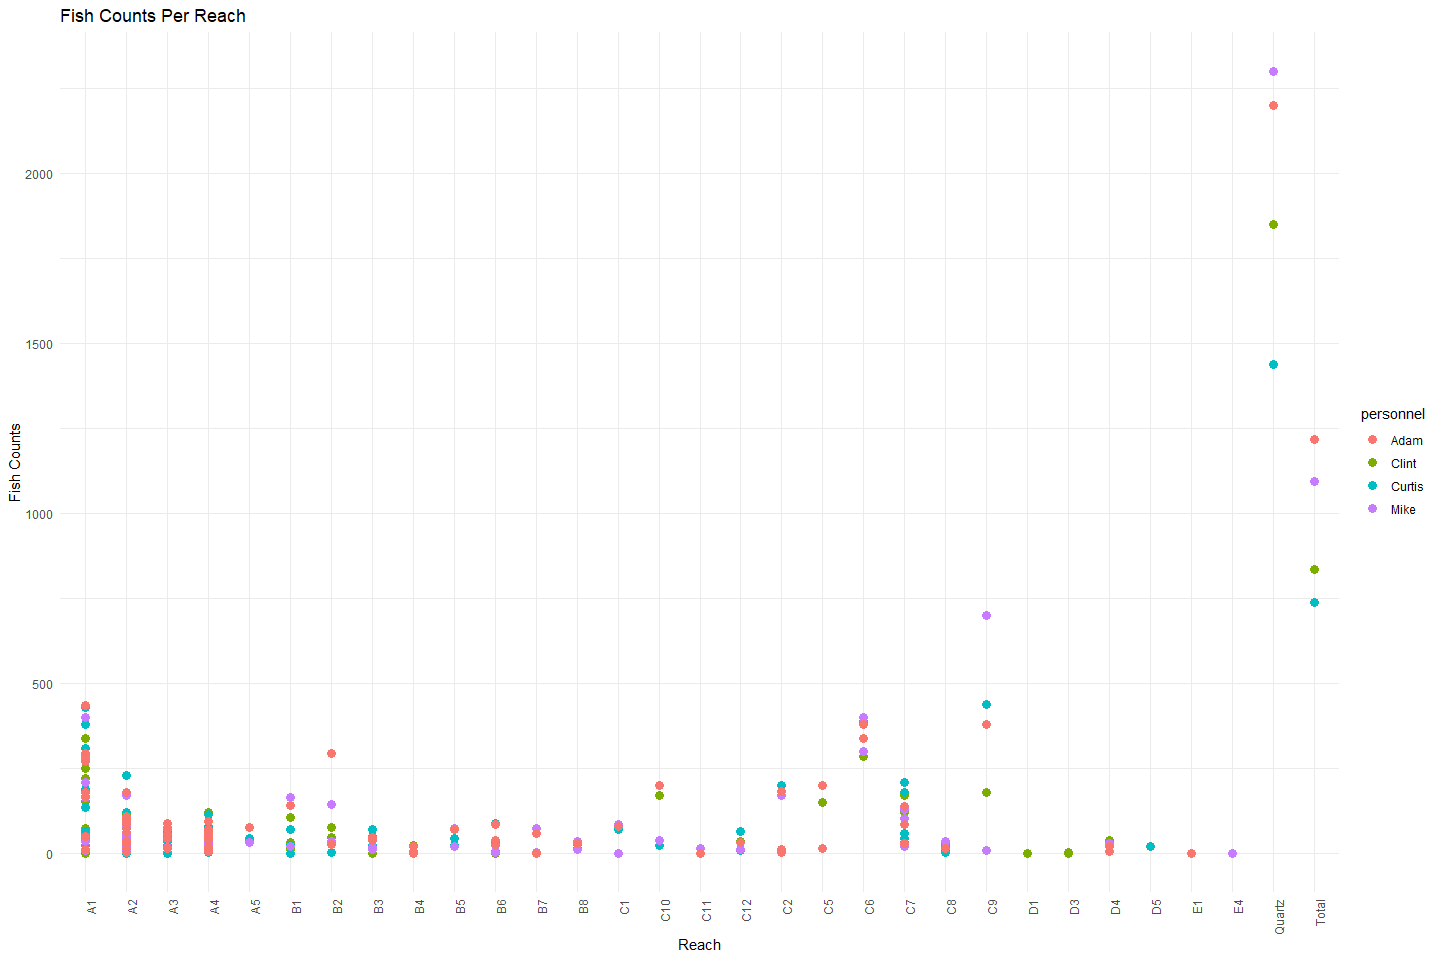
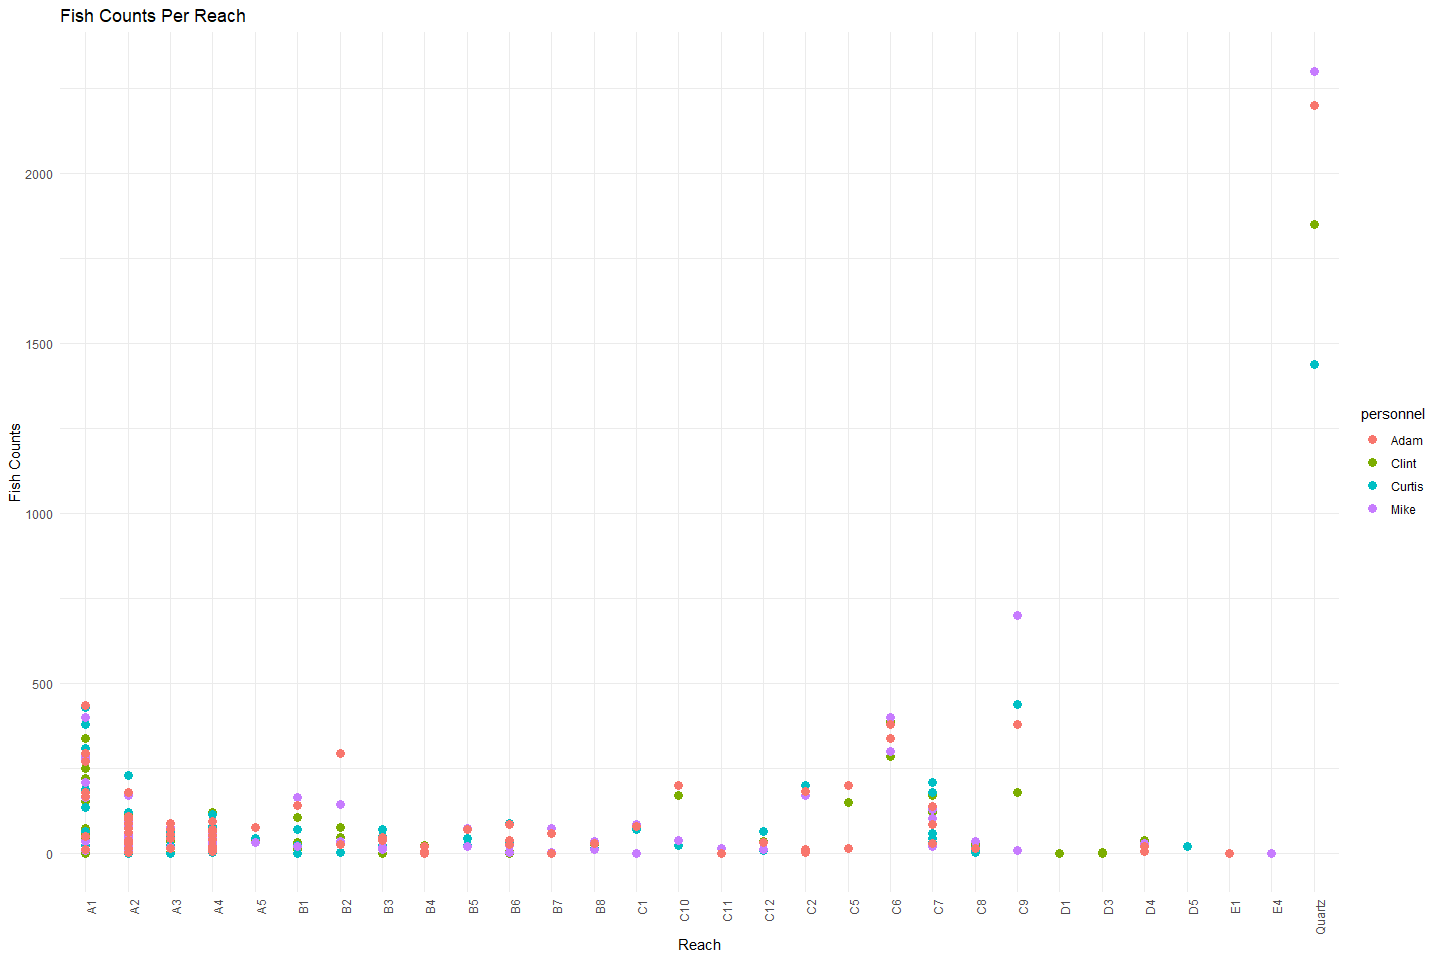
Removes 2002 total in reach category

diff --git a/scripts/adult-holding-redd-and-carcass-surveys/butte-creek/butte-creek-snorkel-survey-2002.md b/scripts/adult-holding-redd-and-carcass-surveys/butte-creek/butte-creek-snorkel-survey-2002.md
@@ -87,7 +87,7 @@ tidy_up_snorkel_data <- function(file_name, sheet_name){
   }
   
   transformed_data <- combined_data %>%
-    filter(reach != "TOTAL", reach != "TOTALS", reach != "RANGE", reach != "Range") %>%
+    filter(reach != "TOTAL", reach != "TOTALS", reach != "Total", reach != "RANGE", reach != "Range") %>%
     mutate(why_fish_count_na = case_when(why_fish_count_na == "NGC" ~ "not a good count",
                                 why_fish_count_na == "DNS" ~ "did not see", 
                                 why_fish_count_na == "DNSw"| why_fish_count_na == "DNSW" ~ "did not swim",
@@ -150,7 +150,7 @@ cleaner_data <- bind_rows(purrr::map2(file_names, sheet_names, tidy_up_snorkel_d
     ## [1] "Mike"
     ## [1] 4
     ## [1] "Adam"
-    ## Rows: 512
+    ## Rows: 508
     ## Columns: 5
     ## $ date              <date> 2002-08-12, 2002-08-12, 2002-08-12, 2002-08-12, 200~
     ## $ reach             <chr> "Quartz", "A1", "A1", "A1", "A1", "A1", "A1", "A1", ~
@@ -199,11 +199,11 @@ summary(cleaner_data$fish_count)
 ```
 
     ##    Min. 1st Qu.  Median    Mean 3rd Qu.    Max.    NA's 
-    ##     1.0    14.0    40.0   112.2    90.0  2300.0     212
+    ##     1.0    14.0    40.0   100.6    88.5  2300.0     212
 
 **NA and Unknown Values**
 
--   41.4 % of values in the `fish_count` column are NA.
+-   41.7 % of values in the `fish_count` column are NA.
 
 ## Explore Categorical variables:
 
@@ -228,8 +228,8 @@ table(cleaner_data$reach)
     ##     52     84     32     56      4     20     12     24     20     16     24 
     ##     B7     B8     C1    C10    C11    C12     C2     C5     C6     C7     C8 
     ##     12     12      8      4      8     12     12      8      8     20     16 
-    ##     C9     D1     D3     D4     D5     E1     E4 Quartz  Total 
-    ##      8      4      8      8      4      4      4      4      4
+    ##     C9     D1     D3     D4     D5     E1     E4 Quartz 
+    ##      8      4      8      8      4      4      4      4
 
 They do not appear to do the same number of snorkels in each reach.
 
@@ -245,7 +245,7 @@ table(cleaner_data$personnel)
 
     ## 
     ##   Adam  Clint Curtis   Mike 
-    ##    128    128    128    128
+    ##    127    127    127    127
 
 **NA and Unknown Values**
 
@@ -265,7 +265,7 @@ table(cleaner_data$why_fish_count_na)
 
 **NA and Unknown Values**
 
--   78.7 % of values in the `why_fish_count_na` column are NA.
+-   78.5 % of values in the `why_fish_count_na` column are NA.
 
 ## Summary of identified issues
 
@@ -279,7 +279,7 @@ table(cleaner_data$why_fish_count_na)
 butte_holding_2002 <- cleaner_data %>% glimpse
 ```
 
-    ## Rows: 512
+    ## Rows: 508
     ## Columns: 5
     ## $ date              <date> 2002-08-12, 2002-08-12, 2002-08-12, 2002-08-12, 200~
     ## $ reach             <chr> "Quartz", "A1", "A1", "A1", "A1", "A1", "A1", "A1", ~
